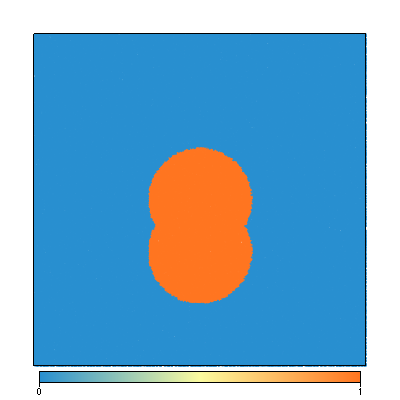
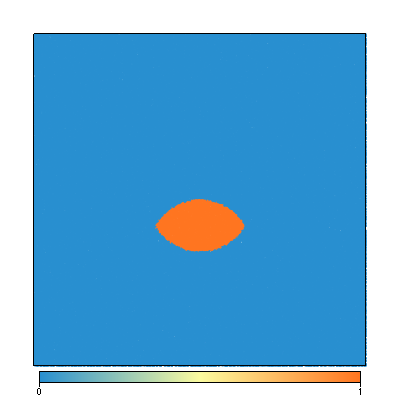
Update documentation and CHANGELOG

Changed region(s): [[0.36, 0.36, 0.63, 0.78]]

diff --git a/docs/source/User Guide.rst b/docs/source/User Guide.rst
@@ -606,7 +606,7 @@ Several shapes can be combined to form a material shape:
    >>> disk2 = GEO.shapes.Disk(center=(20. * u.kilometre, 20. * u.kilometre),
    ...                         radius=5.*u.kilometre)
 
-   >>> shape = disk1 & disk2
+   >>> shape = disk1 | disk2
    >>> material = Model.add_material(name="Material", shape=shape)
 
    >>> Fig = glucifer.Figure(figsize=(400,400))
@@ -614,28 +614,6 @@ Several shapes can be combined to form a material shape:
    >>> Fig.show()
 
 .. image:: /img/multishape.png
-
-The following is equivalent:
-
-.. code:: python
-
-  >>> import UWGeodynamics as GEO
-  >>> import glucifer
-
-  >>> u = GEO.u
-  >>> Model = GEO.Model()
-  >>> disk1 = GEO.shapes.Disk(center=(32. * u.kilometre, 32. * u.kilometre),
-  ...                         radius=10.*u.kilometre)
-  >>> disk2 = GEO.shapes.Disk(center=(32. * u.kilometre, 22. * u.kilometre),
-  ...                         radius=10.*u.kilometre)
-
-  >>> shape = disk1 + disk2
-  >>> material = Model.add_material(name="Material", shape=shape)
-
-  >>> Fig = glucifer.Figure(figsize=(400,400))
-  >>> Fig.Points(Model.swarm, Model.materialField)
-  >>> Fig.show()
-
 
 You can also take the intersection of some shapes:
 
@@ -658,6 +636,7 @@ You can also take the intersection of some shapes:
   >>> Fig.Points(Model.swarm, Model.materialField)
   >>> Fig.show()
 
+.. image:: /img/multishape-1.png
 
 **HalfSpace**
 
@@ -679,6 +658,7 @@ defined by the normal vector.
    >>> u = GEO.UnitRegistry
 
    >>> Model = GEO.Model(elementRes=(34, 34, 12),
+   ...                   gravity=(0., 0., -9.81 * u.m / u.s**2),
    ...                   minCoord=(0. * u.km, 0. * u.km, -2880. * u.km),
    ...                   maxCoord=(9000. * u.km, 2000. * u.km, 20. * u.km))
 
@@ -688,7 +668,7 @@ defined by the normal vector.
    >>> halfspace4 = GEO.shapes.HalfSpace(normal=(0.,0.,-1.), origin=(6500. * u.km, 1000. * u.km, -1000. * u.km))
 
    >>> compositeShape = halfspace1 & halfspace2 & halfspace3 & halfspace4
-   >>> polygon= Model.add_material(name="polygon", shape=CompositeShape)
+   >>> polygon= Model.add_material(name="polygon", shape=compositeShape)
 
    >>> Fig = glucifer.Figure()
    >>> Fig.Points(Model.swarm, Model.materialField, cullface=False, opacity=1.)
@@ -1313,6 +1293,21 @@ across the border/boundary.
 
    >>> Model.set_stressBCs(bottom=[None, 10.*u.megapascal])
    ...
+
+Lithostatic Pressure Condition (stress)
+^^^^^^^^^^^^^^^^^^^^^^^^^^^
+
+The lithostatic pressure field can be passed as a boundary condition (stress)
+
+.. code:: python
+
+   >>> import UWGeodynamics as GEO
+   >>> u = GEO.u
+   >>> Model = GEO.Model()
+
+   >>> Model.set_stressBCs(left=[-Model.lithostatic_pressureField, None])
+   ...
+
 
 Thermal Boundary Conditions
 ---------------------------
